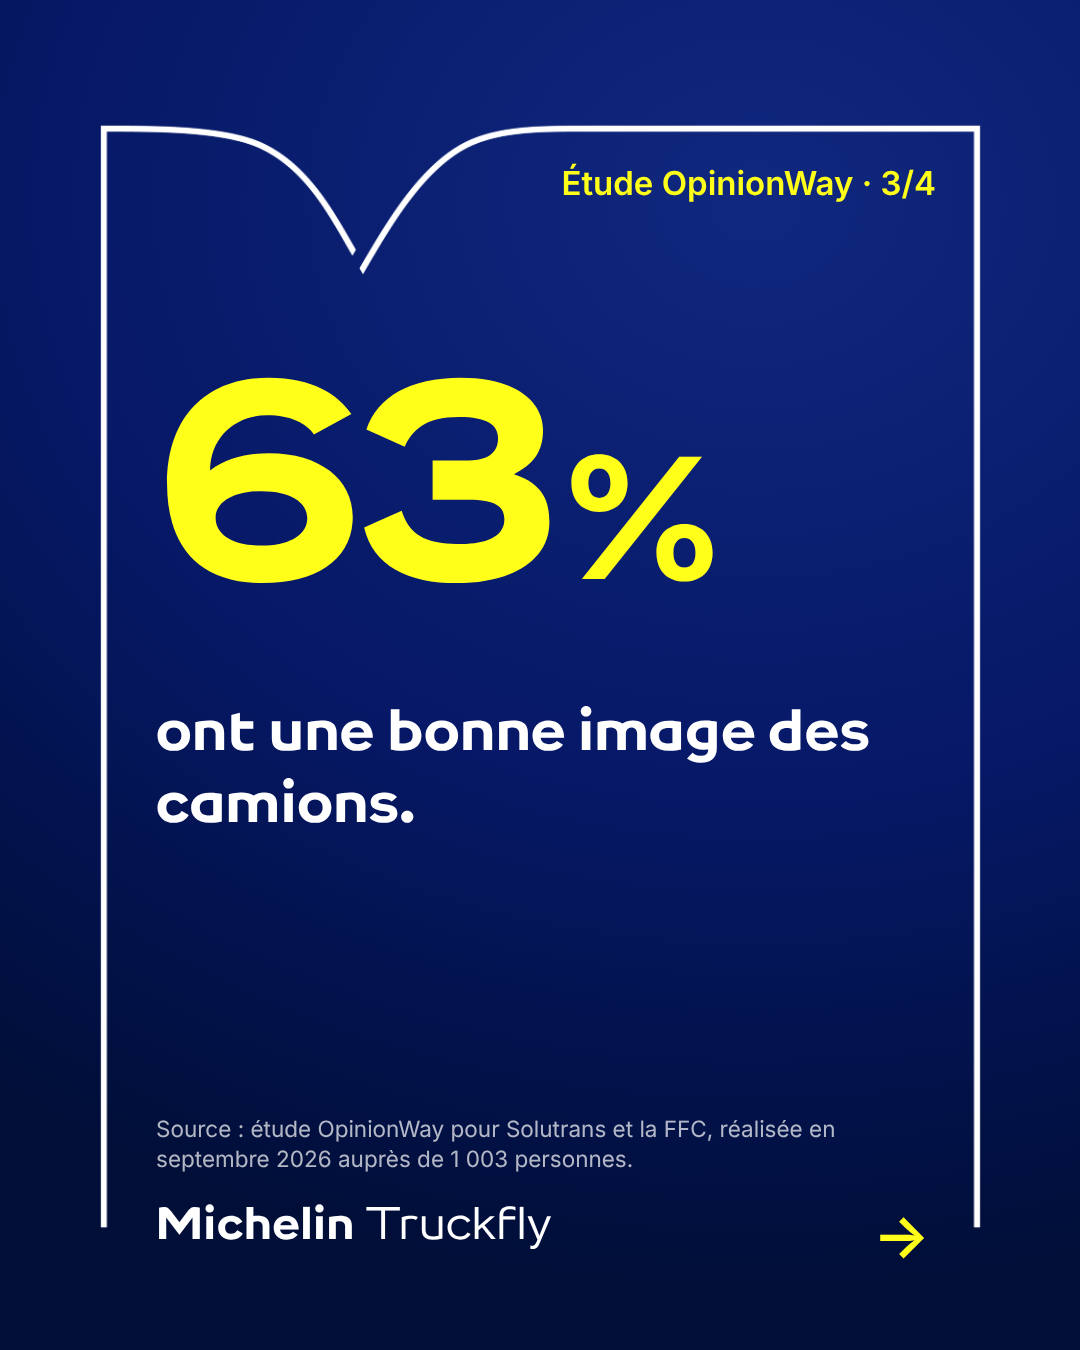
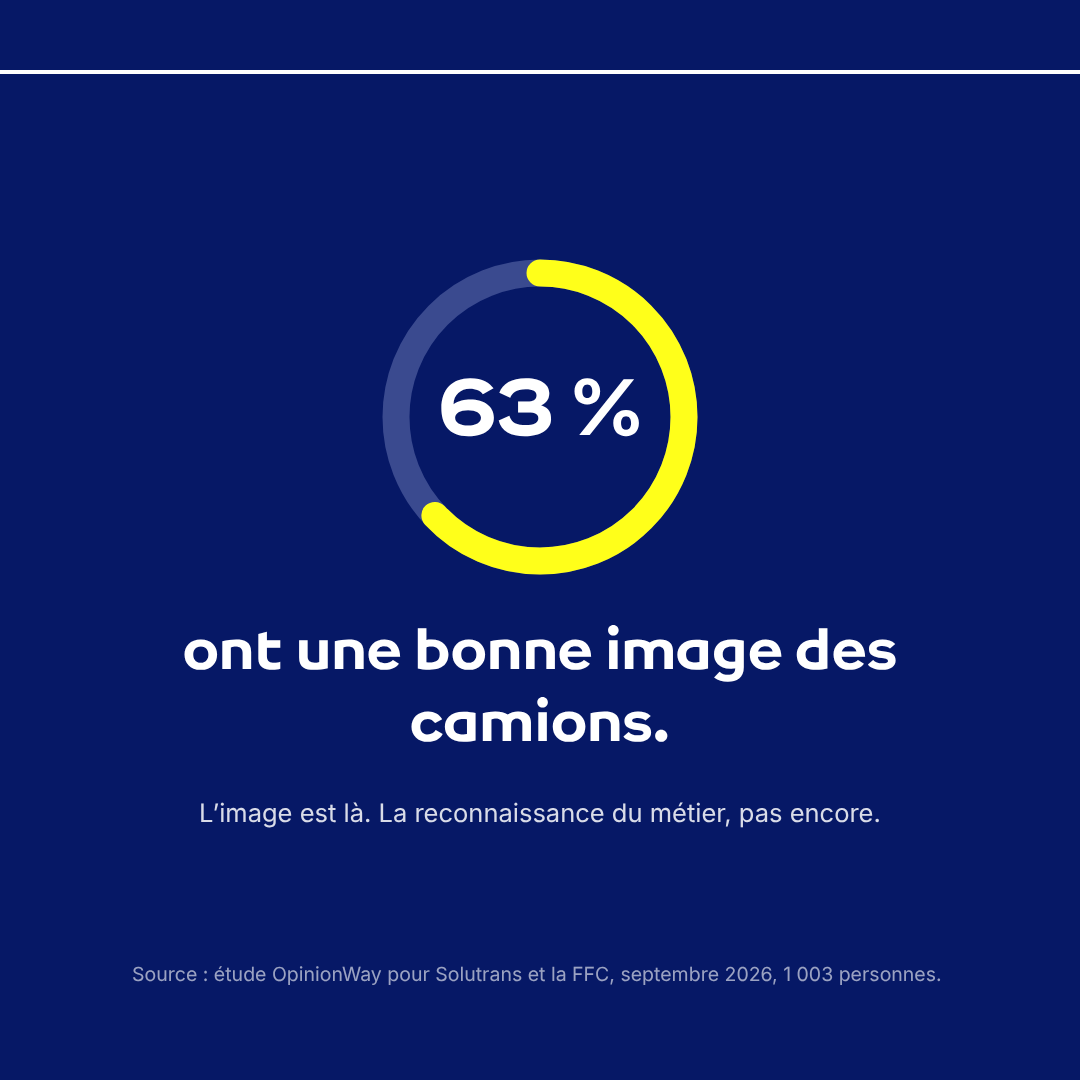
LinkedIn reconnaissance routiers : refonte au format template panorama 1:1 (cadre continu, jauges, liste)
Claude-Session: https://claude.ai/code/session_01Dxf6WNdv4P86chybPTPxZZ

diff --git a/linkedin/reconnaissance-routiers/carrousel.html b/linkedin/reconnaissance-routiers/carrousel.html
@@ -1,0 +1,124 @@
+<!doctype html>
+<html lang="fr">
+<head>
+<meta charset="UTF-8" />
+<title>LinkedIn : carrousel reconnaissance des routiers</title>
+<!-- Carrousel LinkedIn 1:1, d'après le template Michelin « panorama » : 5 slides de 360 × 360 posées côte à côte,
+     un seul trait de cadre qui court sur tout le carrousel (encoche sur la 1re slide, fermé à droite sur la dernière).
+     rendre.mjs découpe chaque slide. #carte : visuel unique, même style. -->
+<style>
+@font-face { font-family: "Bib"; src: url("../../ma-video/assets/fonts/BIB-Bold.woff2") format("woff2"); font-weight: 700; }
+@font-face { font-family: "Inter"; src: url("../../ma-video/assets/fonts/Inter-Regular.otf") format("opentype"); font-weight: 400; }
+@font-face { font-family: "Inter"; src: url("../../ma-video/assets/fonts/Inter-SemiBold.otf") format("opentype"); font-weight: 600; }
+:root { --bleu: #061866; --jaune: #FFFF1A; }
+* { box-sizing: border-box; margin: 0; padding: 0; }
+body { background: #000; }
+.panorama, .carte { position: relative; height: 360px; background: var(--bleu); color: #fff; font-family: "Inter", sans-serif; overflow: hidden; }
+.panorama { width: 1800px; }
+.carte { width: 360px; margin-top: 20px; }
+.cadre { position: absolute; inset: 0; width: 100%; height: 100%; pointer-events: none; }
+.cadre path { fill: none; stroke: #fff; stroke-width: 1.4; }
+
+.slide { position: absolute; top: 0; width: 360px; height: 360px; padding: 0 44px; display: flex; flex-direction: column; justify-content: center; }
+.slide.s1 { left: 0; } .slide.s2 { left: 360px; } .slide.s3 { left: 720px; } .slide.s4 { left: 1080px; } .slide.s5 { left: 1440px; }
+
+.sur { font-weight: 600; font-size: 8.5px; letter-spacing: 1px; text-transform: uppercase; color: rgba(255,255,255,.85); margin-bottom: 10px; }
+.chiffre { font-family: "Bib", sans-serif; font-weight: 700; font-size: 76px; line-height: 1; letter-spacing: -1px; color: var(--jaune); }
+.titre { font-family: "Bib", sans-serif; font-weight: 700; font-size: 19px; line-height: 24px; margin-top: 12px; }
+.petit { font-size: 8.5px; line-height: 12px; color: rgba(255,255,255,.85); margin-top: 10px; }
+.centre { align-items: center; text-align: center; }
+
+/* Jauge circulaire */
+.jauge { position: relative; width: 112px; height: 112px; }
+.jauge svg { width: 100%; height: 100%; transform: rotate(-90deg); }
+.jauge .fond { stroke: #3a4a8f; }
+.jauge .arc { stroke: var(--jaune); stroke-linecap: round; }
+.jauge b { position: absolute; inset: 0; display: grid; place-items: center; font-family: "Bib", sans-serif; font-size: 26px; }
+.tag { display: inline-block; margin-top: 10px; padding: 3px 9px; border-radius: 10px; background: var(--jaune); color: var(--bleu); font-weight: 600; font-size: 9px; }
+
+/* Liste à puces */
+.liste { list-style: none; margin-top: 22px; position: relative; }
+.liste::before { content: ""; position: absolute; left: 3px; top: 8px; bottom: 8px; width: 1px; background: rgba(255,255,255,.4); }
+.liste li { position: relative; padding-left: 20px; font-size: 12px; line-height: 16px; margin-bottom: 18px; }
+.liste li::before { content: ""; position: absolute; left: 0; top: 5px; width: 7px; height: 7px; border-radius: 50%; background: #fff; }
+
+.guillemet { font-family: "Bib", sans-serif; font-size: 40px; line-height: 20px; height: 22px; color: var(--jaune); }
+.logo { width: 140px; margin-top: 22px; }
+.source { position: absolute; bottom: 30px; left: 44px; right: 44px; font-size: 6.5px; line-height: 9px; color: rgba(255,255,255,.6); }
+.suite { position: absolute; bottom: 26px; right: 30px; font-weight: 600; font-size: 16px; color: var(--jaune); }
+</style>
+</head>
+<body>
+
+<main class="panorama" id="panorama">
+  <!-- Trait du cadre : ouvert en bas, encoche en M sur la 1re slide, fermé à droite sur la dernière -->
+  <svg class="cadre" viewBox="0 0 1800 360" preserveAspectRatio="none">
+    <path d="M24 336 V24 H54 C76 24 88 30 101 52" />
+    <path d="M104 50 C116 31 128 24 158 24 H1776 V336" />
+  </svg>
+
+  <section class="slide s1">
+    <p class="sur">Étude OpinionWay · Solutrans × FFC</p>
+    <p class="chiffre">89 %</p>
+    <p class="titre">des Français jugent le transport routier essentiel à l’économie.</p>
+    <p class="petit">Et 90 % savent que leurs produits du quotidien passent par la route.</p>
+  </section>
+
+  <section class="slide s2 centre">
+    <div class="jauge">
+      <svg viewBox="0 0 112 112"><circle class="fond" cx="56" cy="56" r="48" fill="none" stroke-width="9"/>
+        <circle class="arc" cx="56" cy="56" r="48" fill="none" stroke-width="9" stroke-dasharray="244.3 301.6"/></svg>
+      <b>81 %</b>
+    </div>
+    <p class="titre">Et pourtant, ils estiment que les routiers manquent de reconnaissance.</p>
+    <span class="tag">↗ Un chiffre en hausse</span>
+  </section>
+
+  <section class="slide s3 centre">
+    <div class="jauge">
+      <svg viewBox="0 0 112 112"><circle class="fond" cx="56" cy="56" r="48" fill="none" stroke-width="9"/>
+        <circle class="arc" cx="56" cy="56" r="48" fill="none" stroke-width="9" stroke-dasharray="190 301.6"/></svg>
+      <b>63 %</b>
+    </div>
+    <p class="titre">ont une bonne image des camions.</p>
+    <p class="petit">L’image est là. La reconnaissance du métier, pas encore.</p>
+  </section>
+
+  <section class="slide s4">
+    <p class="titre" style="margin-top:0">Ce paradoxe, les chauffeurs le vivent chaque jour :</p>
+    <ul class="liste">
+      <li>De longues heures au volant</li>
+      <li>Des nuits loin de chez soi</li>
+      <li>Des parkings saturés…</li>
+      <li style="margin-bottom:0">…et un métier qu’on ne voit qu’au moment où il manque.</li>
+    </ul>
+  </section>
+
+  <section class="slide s5 centre">
+    <p class="titre" style="font-size:22px; line-height:27px; margin-top:0">Avec et pour les chauffeurs.</p>
+    <p class="petit" style="font-size:10px; line-height:14px; max-width:230px">Chaque avis laissé sur un parking, un restaurant ou une station aide un autre conducteur sur la route.</p>
+    <img class="logo" src="../../ma-video/assets/logos/truckfly-blanc-rogne.png" alt="Michelin Truckfly" />
+  </section>
+
+  <p class="source" style="right:auto; width:300px">Source : étude OpinionWay pour Solutrans et la FFC, septembre 2026, 1 003 personnes.</p>
+  <p class="source" style="left:404px; right:auto; width:300px">Source : étude OpinionWay pour Solutrans et la FFC, septembre 2026, 1 003 personnes.</p>
+  <p class="source" style="left:764px; right:auto; width:300px">Source : étude OpinionWay pour Solutrans et la FFC, septembre 2026, 1 003 personnes.</p>
+</main>
+
+<!-- Visuel unique -->
+<main class="carte" id="carte">
+  <svg class="cadre" viewBox="0 0 360 360">
+    <path d="M24 336 V24 H54 C76 24 88 30 101 52" />
+    <path d="M104 50 C116 31 128 24 158 24 H336 V336" />
+  </svg>
+  <section class="slide" style="left:0">
+    <p class="sur">Étude OpinionWay · Solutrans × FFC</p>
+    <p class="chiffre" style="font-size:104px">81 %</p>
+    <p class="titre">des Français estiment que les routiers manquent de reconnaissance.</p>
+    <span class="tag" style="align-self:flex-start">↗ Un chiffre en hausse</span>
+  </section>
+  <p class="source" style="right:auto; width:300px">Source : étude OpinionWay pour Solutrans et la FFC, septembre 2026, 1 003 personnes.</p>
+</main>
+
+</body>
+</html>
